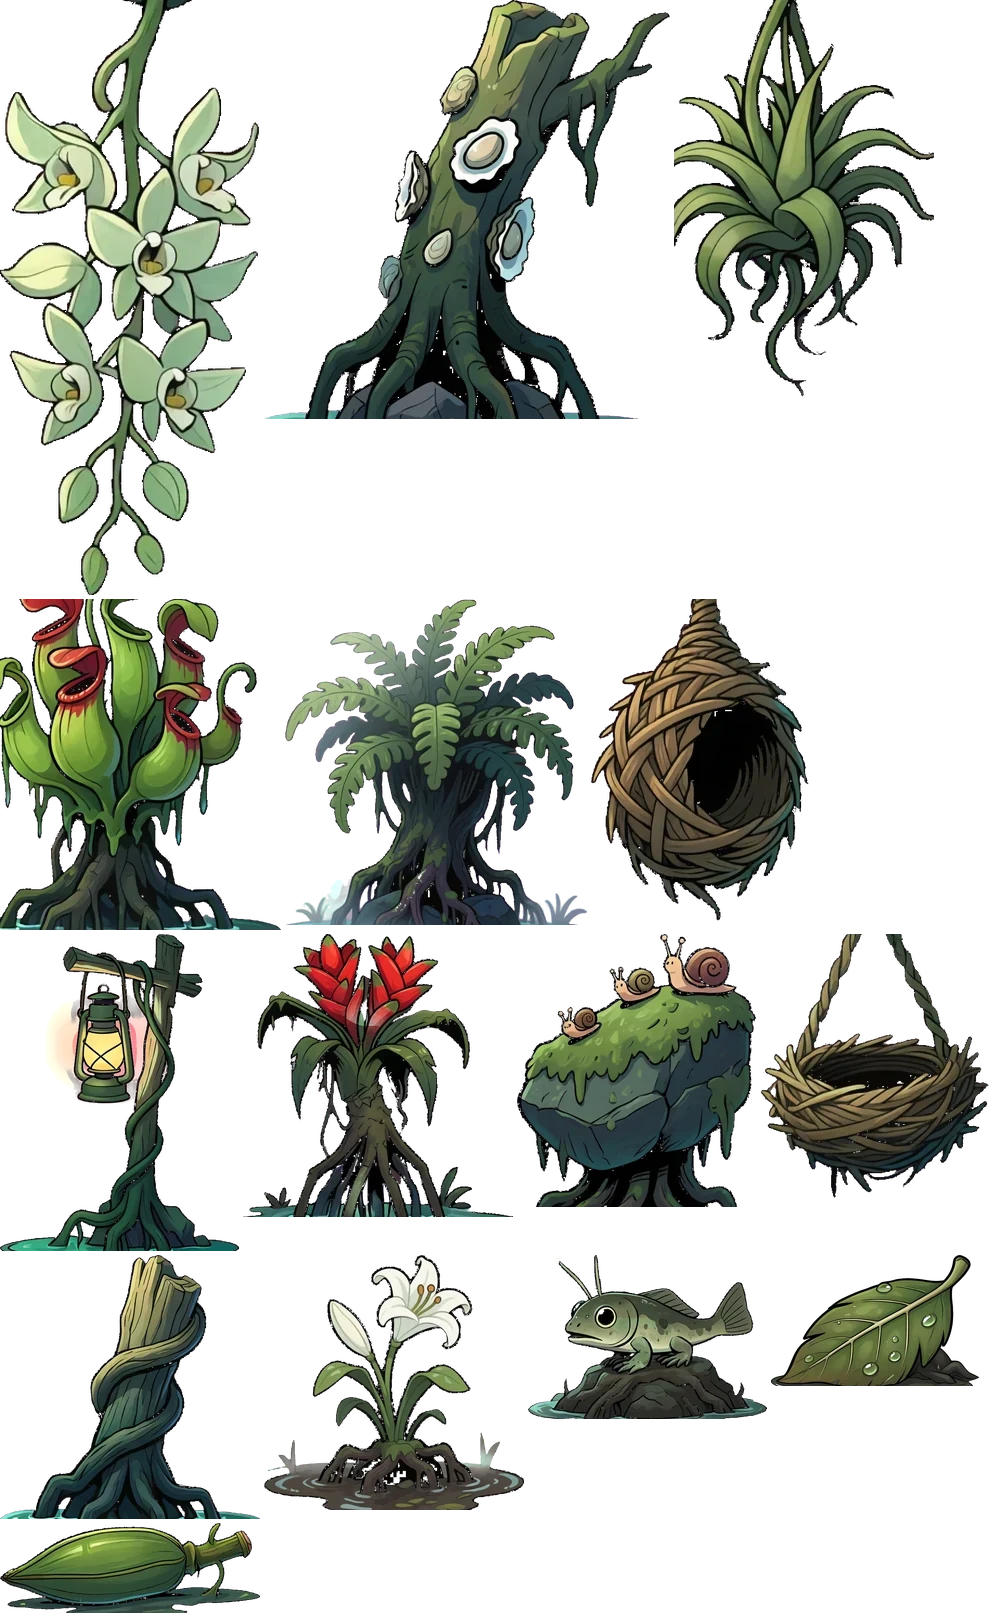
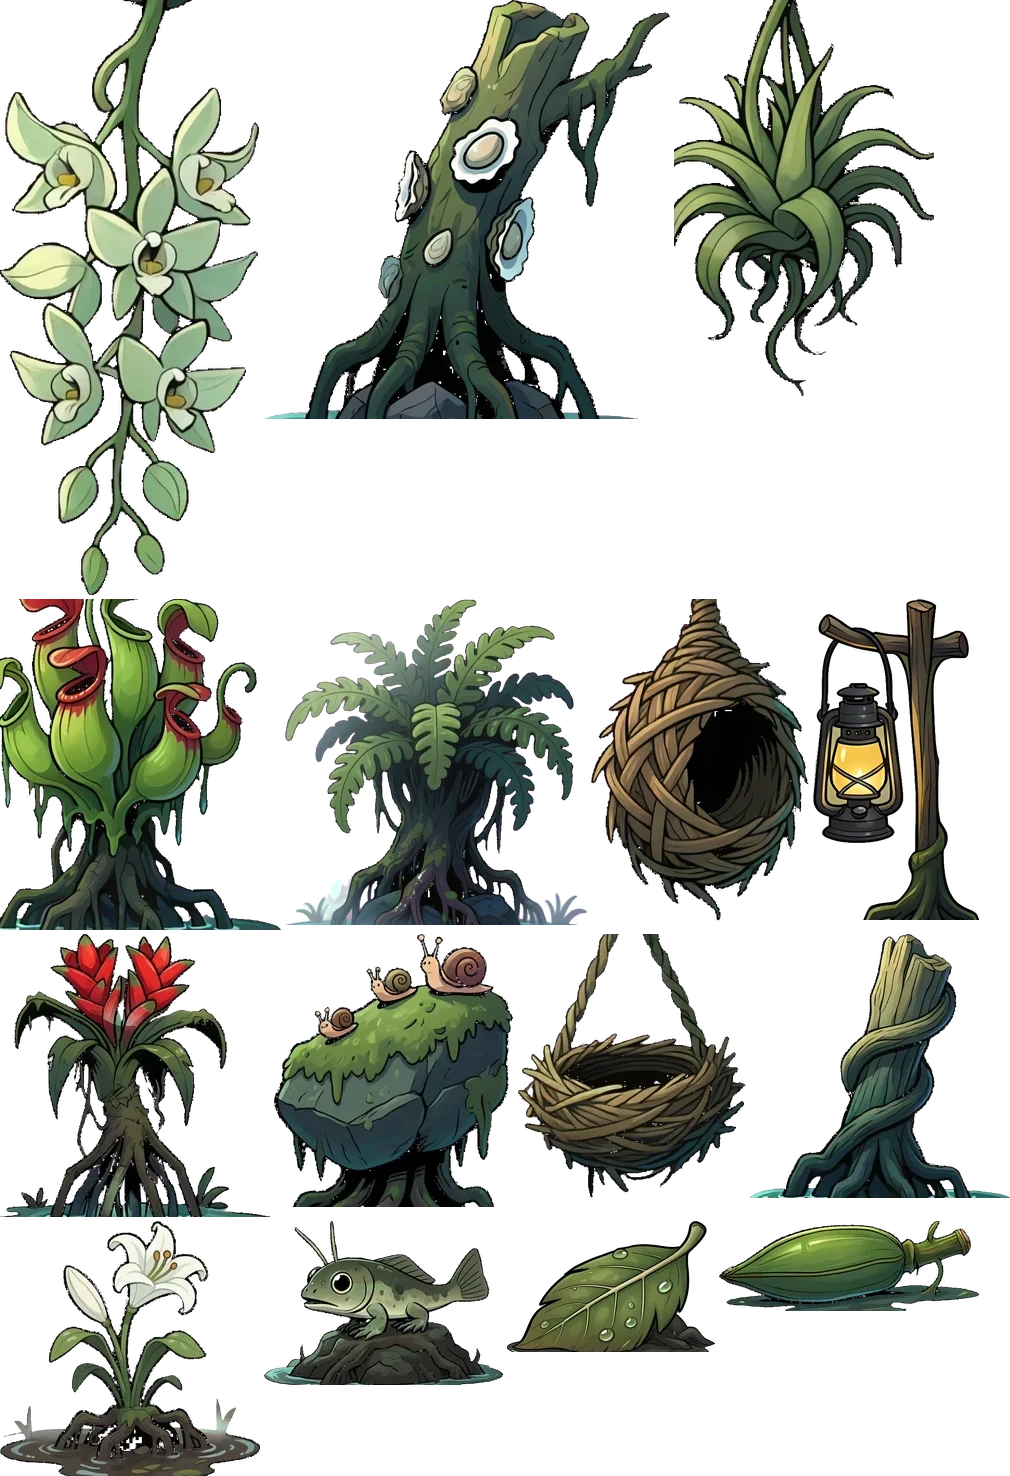
WIP (paused for the engine day; full gate not run): W6 stakeLantern remade on Hugging Face
The old frame had a pink glow of the magenta key round its lantern (the key-hue scan scored it 2.3x).
It is replaced through the hf-props pipeline:
- One HF job (hfprops-ln1 6aecb7830e0338d1bb8093c5, about $0.11 of a $1 cap): 4 takes on grey.
  Kept w6-stakeLantern-11g.
- cut.py --world 6 --fresh stakeLantern. Grey keys now clear a wide grey hole the outline closes
  round the key (inside the handle loop), while small grey glints stay solid.
- Drawn at the old one's height (units 32 -> 42). The old frame is gone.
- Stills: reference/prop-sheets/qa-notes/hf-props/stakelantern/ (6-4, upright and sideways),
  passed the coordinator's review.
Still to do: rebase onto art-keyscan, keyscan.py --write --image the W6 sheet, delete
w6StakeLantern from keyknown.json, then the full gate.

Claude-Session: https://claude.ai/code/session_01FhBbYPKnBYCweHg8duJSu2

diff --git a/src/game/dressNewData.ts b/src/game/dressNewData.ts
@@ -845,15 +845,15 @@ export const DRESS_NEW_FRAMES = {
   "hang": true
  },
  "w6StakeLantern": {
-  "x": 0,
-  "y": 934,
-  "w": 239,
-  "h": 317,
-  "units": 60,
+  "x": 813,
+  "y": 599,
+  "w": 166,
+  "h": 321,
+  "units": 42,
   "world": 6
  },
  "w6BromeliadRoot": {
-  "x": 243,
+  "x": 0,
   "y": 934,
   "w": 270,
   "h": 283,
@@ -861,7 +861,7 @@ export const DRESS_NEW_FRAMES = {
   "world": 6
  },
  "w6SnailRock": {
-  "x": 517,
+  "x": 274,
   "y": 934,
   "w": 239,
   "h": 273,
@@ -869,7 +869,7 @@ export const DRESS_NEW_FRAMES = {
   "world": 6
  },
  "w6NestBasket": {
-  "x": 760,
+  "x": 517,
   "y": 934,
   "w": 229,
   "h": 264,
@@ -878,40 +878,40 @@ export const DRESS_NEW_FRAMES = {
   "hang": true
  },
  "w6DriftRoot": {
-  "x": 0,
-  "y": 1255,
+  "x": 750,
+  "y": 934,
   "w": 260,
   "h": 264,
   "units": 65,
   "world": 6
  },
  "w6MudLilies": {
-  "x": 264,
-  "y": 1255,
+  "x": 0,
+  "y": 1221,
   "w": 260,
   "h": 255,
   "units": 65,
   "world": 6
  },
  "w6Mudskipper": {
-  "x": 528,
-  "y": 1255,
+  "x": 264,
+  "y": 1221,
   "w": 239,
   "h": 164,
   "units": 60,
   "world": 6
  },
  "w6WetLeaves": {
-  "x": 771,
-  "y": 1255,
+  "x": 507,
+  "y": 1221,
   "w": 208,
   "h": 131,
   "units": 52,
   "world": 6
  },
  "w6Pods": {
-  "x": 0,
-  "y": 1523,
+  "x": 719,
+  "y": 1221,
   "w": 260,
   "h": 90,
   "units": 65,

diff --git a/tools/art/hfprops/wetreview.py b/tools/art/hfprops/wetreview.py
@@ -1,7 +1,8 @@
 """Review stills for the W6 wetLeaves remake (2026-11-05): the real game where the piece is laid (6-4's start bank, x 433, flipped;
 shots by tools/art/hfbatch/bootshot.mjs STAGE=6-4 BACK=-330, before on the old build and after on the new one), upright and sideways,
 each with a 3x close-up of the piece (found as the box where before and after differ), and a contact sheet of the round's takes.
-    python3 -I tools/art/hfprops/wetreview.py <shots dir> <takes sheet jpg> <out dir>
+    python3 -I tools/art/hfprops/wetreview.py <shots dir> <takes sheet jpg> <out dir> [shot prefix, default w64] [label]
+(the W6 stakeLantern remake uses it too: prefix ln64, label w6StakeLantern; shots STAGE=6-4 BACK=-560, the lantern at x 704)
 """
 import sys
 from pathlib import Path
@@ -9,12 +10,14 @@ import numpy as np
 from PIL import Image, ImageDraw, ImageChops
 
 shots, sheet, out = Path(sys.argv[1]), sys.argv[2], Path(sys.argv[3])
+PRE = sys.argv[4] if len(sys.argv) > 4 else 'w64'
+LABEL = sys.argv[5] if len(sys.argv) > 5 else 'w6WetLeaves'
 out.mkdir(parents=True, exist_ok=True)
 BANK = {'upright': 505, 'sideways': 225}   # (the 6-4 start bank's top line on screen in these shots)
 for tag in ('upright', 'sideways'):
     pair = []
     for when in ('before', 'after'):
-        pair.append(Image.open(shots / f'w64-{when}-{tag}.png').convert('RGB'))
+        pair.append(Image.open(shots / f'{PRE}-{when}-{tag}.png').convert('RGB'))
     d = np.asarray(ImageChops.difference(*pair).convert('L')) > 24
     # (the piece: the biggest difference cluster in the band just over the bank line, where it stands; the fireflies and the
     # petal pickup bob between shots)
@@ -35,7 +38,7 @@ for tag in ('upright', 'sideways'):
         dr.rectangle((ox - 3, oy - 3, ox + 362, oy + 212), fill=(255, 255, 255))
         im2.paste(z, (ox, oy))
         dr.rectangle(box, outline=(255, 255, 0))
-        dr.text((8, im.height - 16 if tag == 'upright' else 110), f'w6WetLeaves {when.upper()}', fill=(255, 255, 0))
+        dr.text((8, im.height - 16 if tag == 'upright' else 110), f'{LABEL} {when.upper()}', fill=(255, 255, 0))
         im2.save(out / f'{when}-{tag}.jpg', quality=90)
     print(tag, 'piece near', cx, cy)
 S = Image.open(sheet).convert('RGB')

diff --git a/tools/art/hfprops/cut.py b/tools/art/hfprops/cut.py
@@ -63,8 +63,21 @@ def key_own(img, solo=False):
         # (a grey key, 2026-11-05, the W6 wetLeaves remake: an olive leaf sits only ~80 from mid grey, so the distance key left its
         # body half see-through. A piece's ink outline closes it: everything inside the outline is solid, only the outline's own
         # edge keeps the soft key)
+        # (but a hole the outline closes round the key itself, as inside a lantern's handle loop, stays clear: each part of the
+        # inside that is not solid already is filled only if it is painted colour, and cleared if it is grey like the key)
         solid = ndimage.binary_fill_holes(alpha > 0.35)
-        alpha = np.where(ndimage.binary_erosion(solid, iterations=2), 1.0, alpha)
+        inner = ndimage.binary_erosion(solid, iterations=2)
+        lab, n = ndimage.label(inner & (alpha < 0.95))
+        mx, mn = a.max(-1), a.min(-1)
+        sat = (mx - mn) / np.maximum(mx, 1)
+        if n:
+            ms = ndimage.mean(sat, lab, range(1, n + 1))
+            area = ndimage.sum(np.ones_like(sat), lab, range(1, n + 1))
+            # (and big: a grey metal glint on the lantern is the piece's own paint, a few px; the key inside a loop is a wide hole)
+            keyish_hole = np.isin(lab, 1 + np.nonzero((ms < 0.12) & (area > 0.004 * inner.sum()))[0]) & (lab > 0)
+        else:
+            keyish_hole = np.zeros_like(inner)
+        alpha = np.where(inner & ~keyish_hole, 1.0, np.where(keyish_hole, 0.0, alpha))
     al = alpha[..., None]
     paint = np.where(al > 0.02, (a - (1 - al) * bgm) / np.maximum(al, 0.02), 0)
     rgb = np.where(al < 0.999, paint, a).clip(0, 255)
